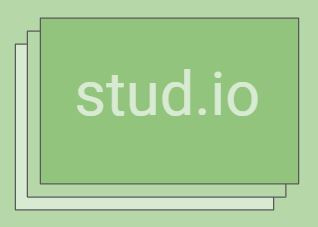
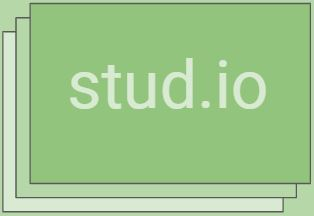
CSS styling updates

diff --git a/vue/src/components/CardListing.vue b/vue/src/components/CardListing.vue
@@ -21,8 +21,9 @@ export default {
 
 <style>
   div.card-listing {
-    background-color: rgba(106, 168, 79, 0.596);
-   border: 2px #d9ead3ff solid;
+   /* border: 2px black solid;    */
+   background-color: rgba(106, 168, 79, 0.596);
+   border: 2px black;
    width: 16rem;
    height: 10rem;
    margin: 20px;
@@ -33,6 +34,10 @@ export default {
    justify-content: center;
    
 }
+
+div.card-listing:hover {
+    transform: scale(1.02);
+  }
 
 div.card-listing > h2 {
   color: white;

diff --git a/vue/src/components/DeckListing.vue b/vue/src/components/DeckListing.vue
@@ -17,7 +17,7 @@ export default {
 <style>
   div.deck-listing {
    background-color: rgba(106, 168, 79, 0.596); 
-   border: 2px black solid;
+   
    width: 16rem;
    height: 10rem;
    margin: 20px;
@@ -27,7 +27,7 @@ export default {
    text-align: center;
    justify-content: center;
    align-content: center;
-   
+   border: 2px black solid;
 }
 
 div.deck-listing:hover {

diff --git a/vue/src/components/CardList.vue b/vue/src/components/CardList.vue
@@ -25,7 +25,11 @@ export default {
 </script>
 
 <style>
+    div.card-listing {
+        border: 2px black solid;
+    }
     div.card-list {
+        
         display: flex;
         flex-wrap: wrap;
         justify-content: center;

diff --git a/vue/src/components/SearchListing.vue b/vue/src/components/SearchListing.vue
@@ -26,7 +26,7 @@ export default {
 <style>
   div.card-listing {
     background-color: rgba(106, 168, 79, 0.596);
-   border: 2px #d9ead3ff solid;
+   border: 2px black solid;
    width: 16rem;
    height: 10rem;
    margin: 20px;

diff --git a/vue/src/App.vue b/vue/src/App.vue
@@ -28,10 +28,10 @@
     background-color: #d9ead3ff;
   }
 
-  img {
-    margin-top: 31px;
-    width: 175px;
-    height: 125px;
+  img.logo {
+    margin-top: 32px;
+    width: 190px;
+    height: 120px;
   }
 
   div#app {

diff --git a/vue/src/components/DeckList.vue b/vue/src/components/DeckList.vue
@@ -36,4 +36,7 @@ export default {
         flex-wrap: wrap;
         justify-content: center;
     }
+    div.deck-listing:hover {
+        transform: scale(1.02);
+    }
 </style>

diff --git a/vue/src/components/SearchCard.vue b/vue/src/components/SearchCard.vue
@@ -64,6 +64,7 @@ export default {
 
 <style>
     div.search-card {
+        
         display: flex;
         flex-direction: column;
         justify-content: center;
